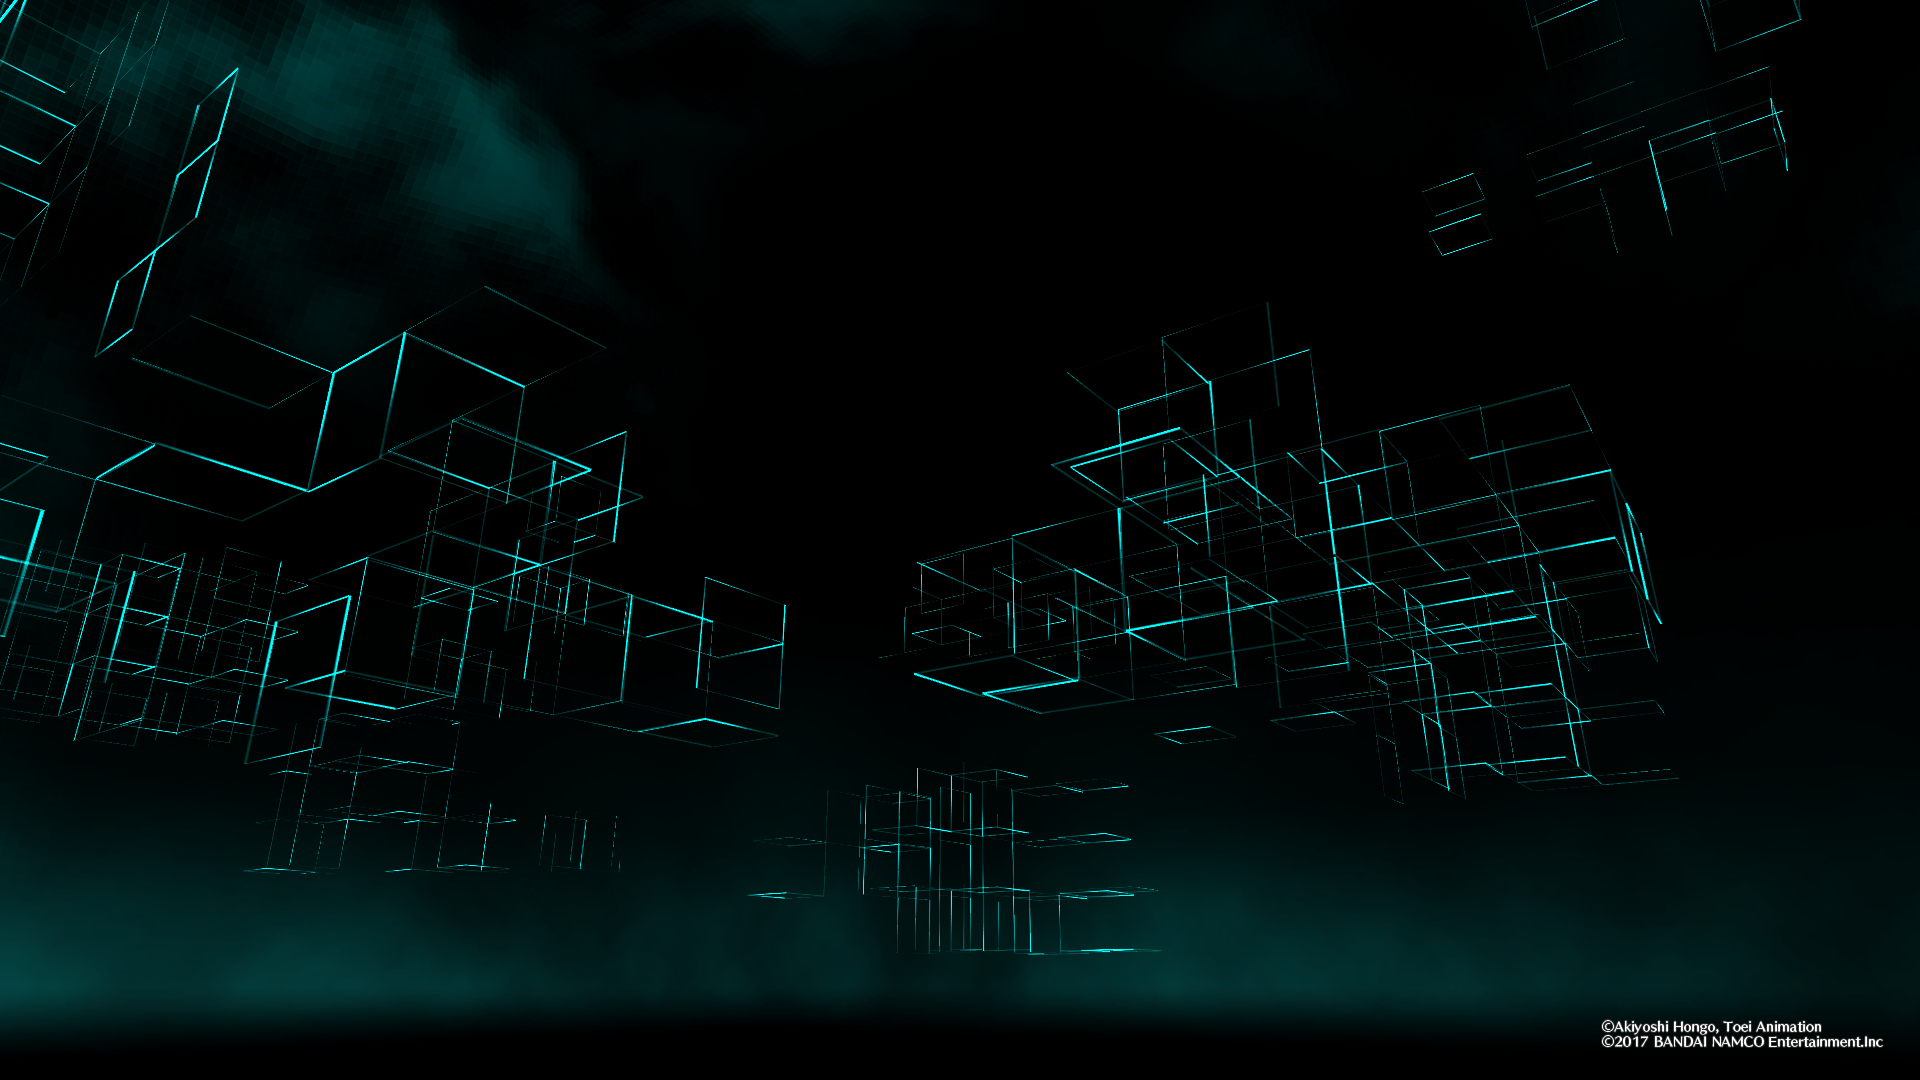
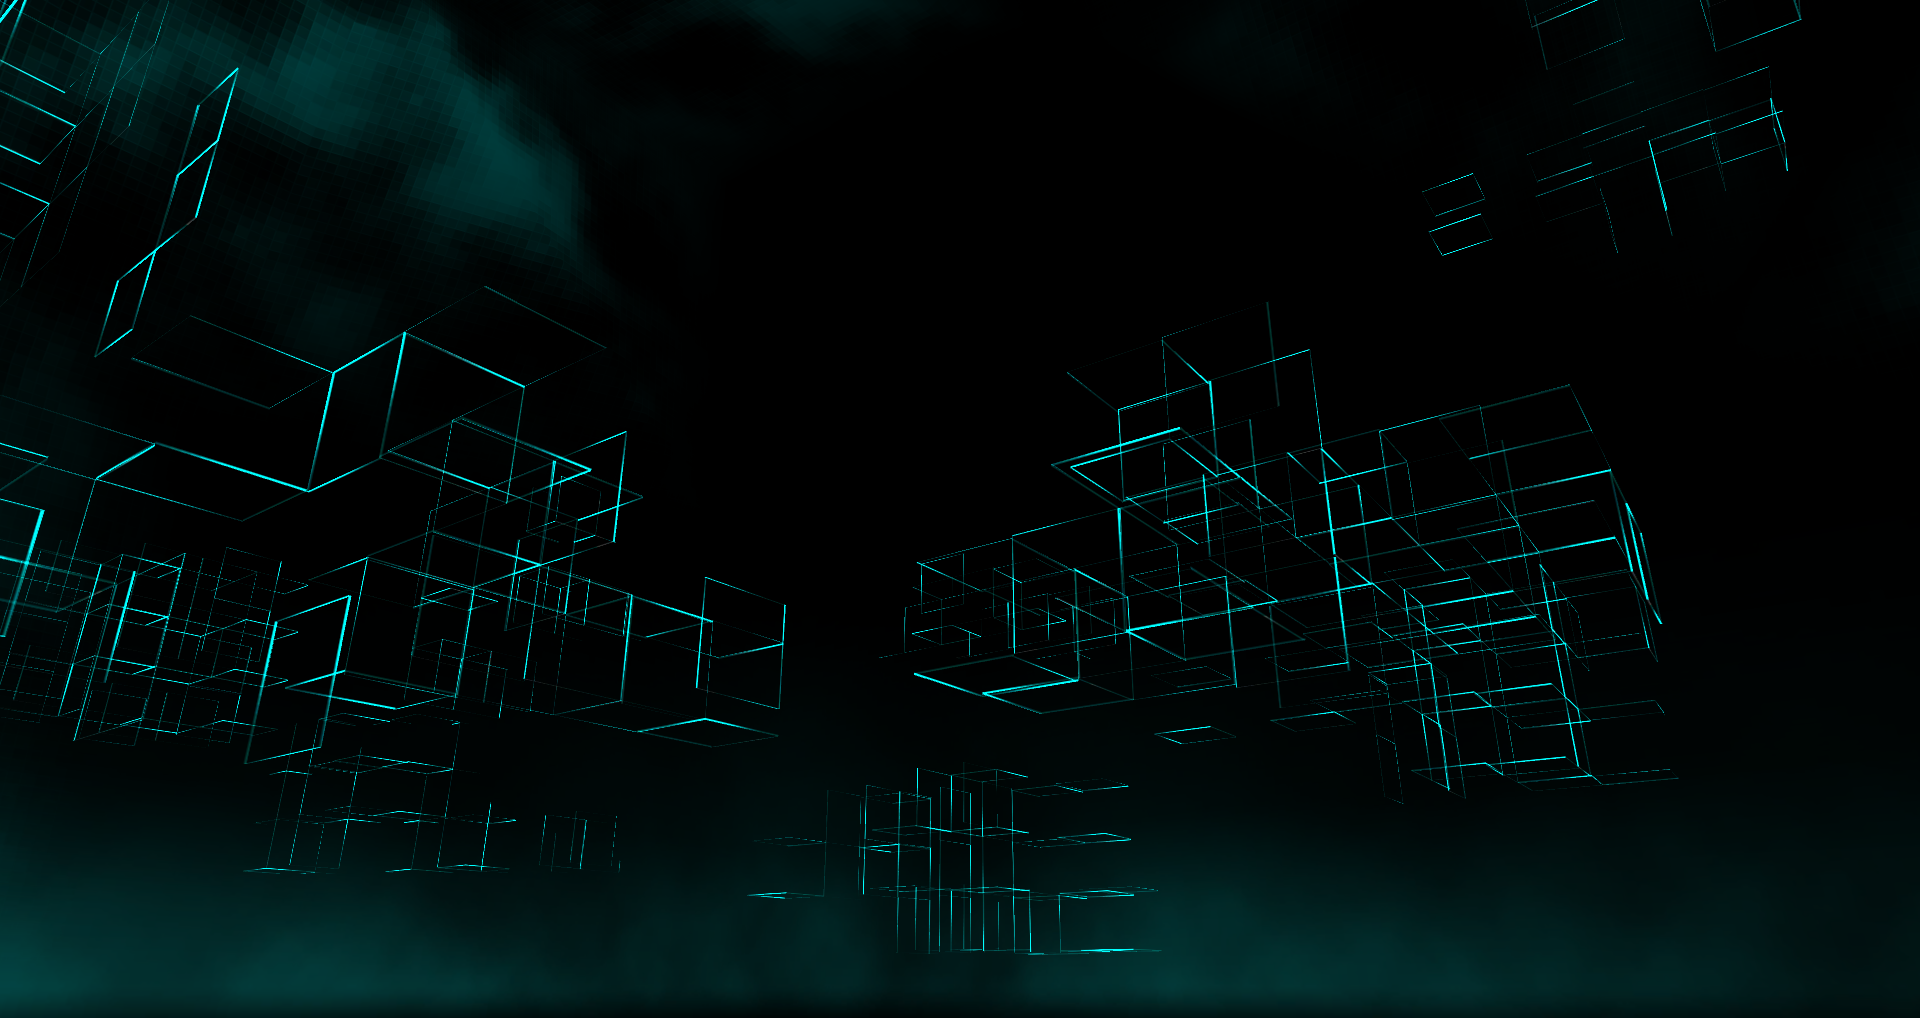
cambios menores en style y carpeta de img,(fondo de pagina) y agregando id al index para funcionalidad del buscador

diff --git a/index.html b/index.html
@@ -6,15 +6,15 @@
     <meta name="viewport" content="width=device-width, initial-scale=1.0">
     <title>Digimon</title>
     <link rel="icon" href="assets/img/D-digimon-si.png">
-    <link rel="stylesheet" href="assets/css/style.css">
     <link rel="stylesheet" href="assets/css/normalize.css">
     <link href="https://cdn.jsdelivr.net/npm/bootstrap@5.0.2/dist/css/bootstrap.min.css" rel="stylesheet" integrity="sha384-EVSTQN3/azprG1Anm3QDgpJLIm9Nao0Yz1ztcQTwFspd3yD65VohhpuuCOmLASjC" crossorigin="anonymous">
-</head>
+    <link rel="stylesheet" href="assets/css/style.css">
+  </head>
 <body>
 
     <nav class="navbar navbar-expand-lg navbar-light bg-light fondoNav">
         <div class="container-fluid">
-            <a class="navbar-brand" href="#">
+            <a class="navbar-brand" href="index.html">
                 <img src="assets/img/logo2-sinFondo.png" class="imgLogo" alt="" width="150" height="100">
             </a>
           <button class="navbar-toggler" type="button" data-bs-toggle="collapse" data-bs-target="#navbarSupportedContent" aria-controls="navbarSupportedContent" aria-expanded="false" aria-label="Toggle navigation">
@@ -36,17 +36,17 @@
             </ul>
 
             <form class="d-flex">
-              <input class="form-control me-2" type="search" placeholder="Buscar Digimon" aria-label="Search">
-              <button class="btn btn-outline-success" type="submit">Buscar</button>
+              <input id="BuscarDigimon" class="form-control me-2" type="search" placeholder="Buscar Digimon" aria-label="Search">
+              <button id="btn-buscarDigimon" class="btn btn-outline-success" type="submit">Buscar</button>
             </form>
 
           </div>
         </div>
       </nav>
 
-    <main>
-        <div class="container mt-5 tabla w-50">
-            <table class="table ">
+    <main id="cardIndividual">
+        <!-- <div class="container mt-5 tabla"> -->
+            <table class="table container mt-5 tabla w-50">
                 <thead>
                     <tr class="letrasTabla">
                         <th scope="col">img</th>
@@ -59,7 +59,16 @@
                
                 </tbody>
             </table>
-        </div>
+        <!-- </div> -->
+        <nav aria-label="..." class="paginacion">
+          <ul class="pagination pagination-lg">
+            <li class="page-item active" aria-current="page">
+              <span class="page-link">1</span>
+            </li>
+            <li class="page-item"><a class="page-link" href="#">2</a></li>
+            <li class="page-item"><a class="page-link" href="#">3</a></li>
+          </ul>
+        </nav>
 
     </main>
 

diff --git a/assets/css/style.css b/assets/css/style.css
@@ -1,8 +1,8 @@
 
 body{
     background-image: url(../img/fondo7.png);
-    background-repeat: no-repeat;
-    background-size: cover;
+    background-repeat: repeat;
+    background-size: 100%;
 }
 .fondoNav{
     background-image: linear-gradient(to bottom, #000f0f, #021414, #031818, #041c1b, #04201f, #052c2b, #053937, #054744, #07625f, #087f7d, #069d9b, #00bcbc);
@@ -19,8 +19,8 @@ body{
     text-decoration: none;
     margin: 1.2rem;
 }
-.enlaceNav::hoover{
-    color:red;
+.enlaceNav:hover{
+    color:rgba(255,0,255,1);
 }
 
 .tamañoBuscador{
@@ -45,4 +45,9 @@ body{
 
 .imgTbody{
     color: white;
+}
+
+.paginacion{
+   display: flex;
+   justify-content: center;
 }
